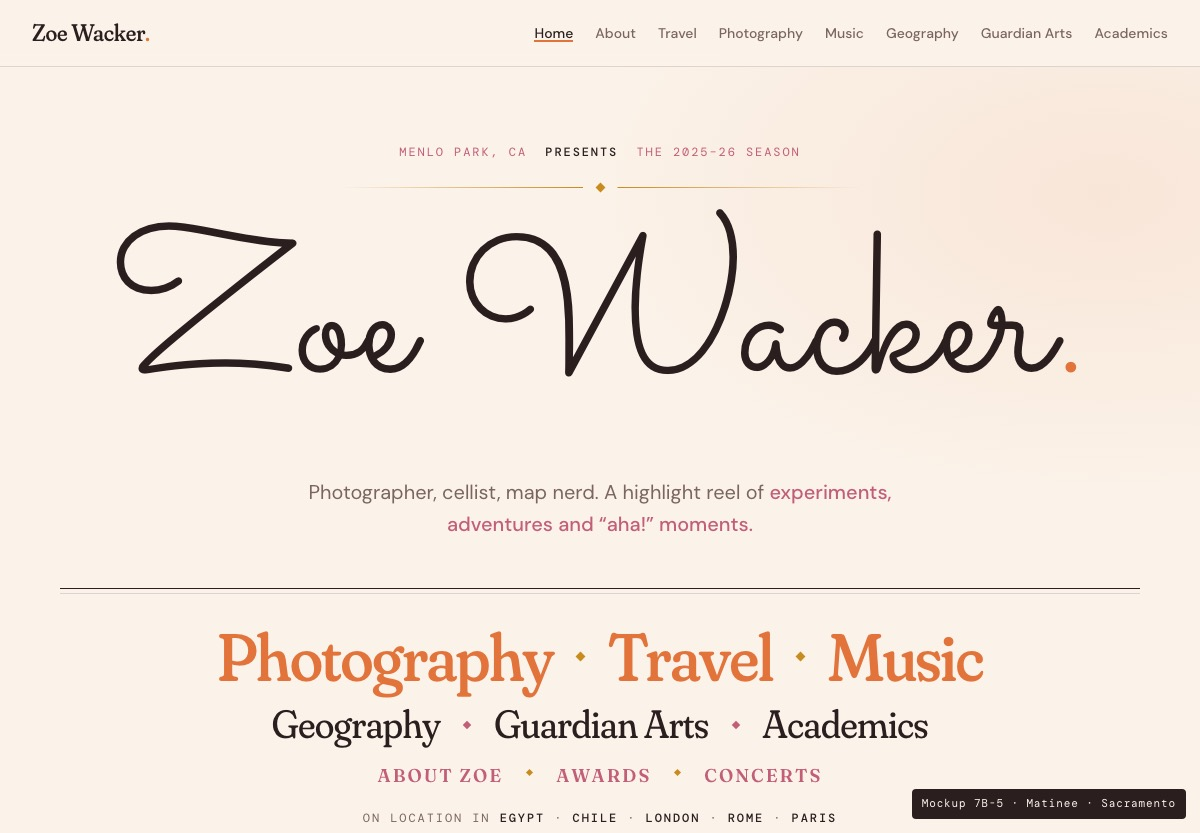
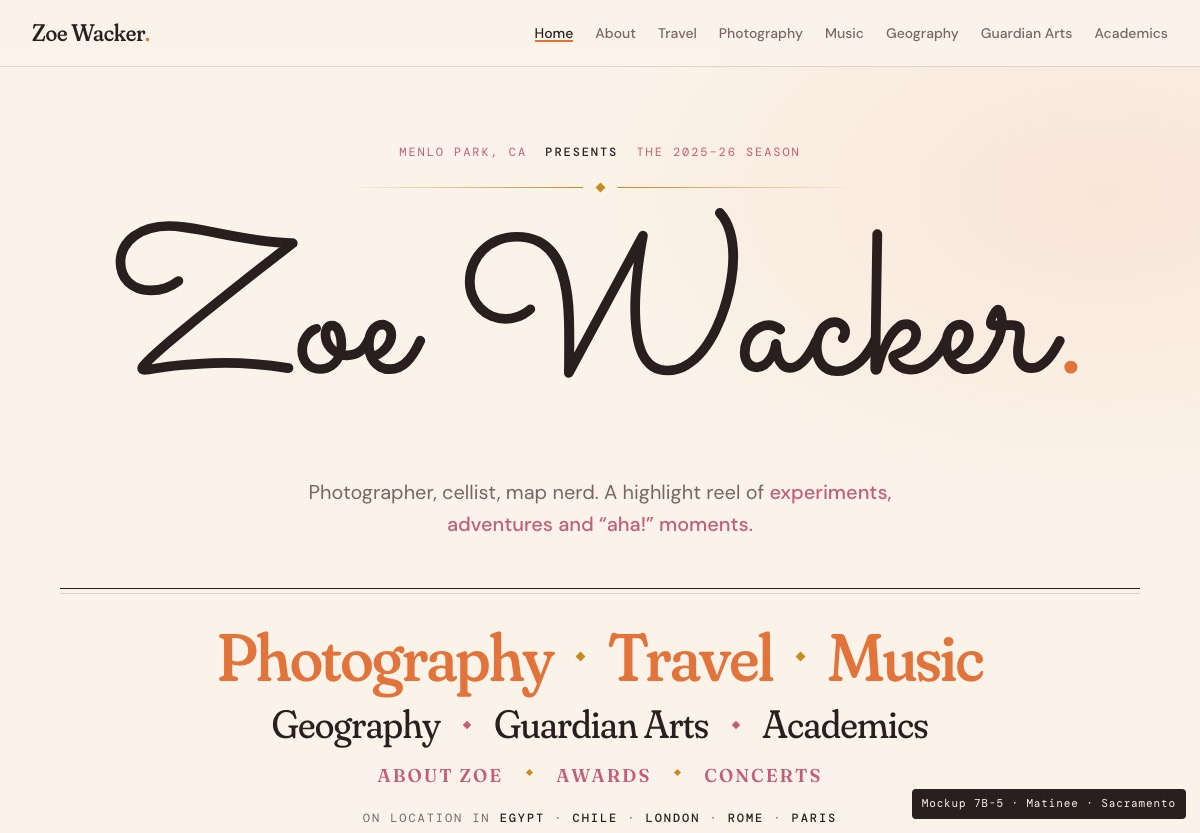
design: 7B-5 Sacramento at a regular pen weight

diff --git a/design/themes/7B-5/index.html b/design/themes/7B-5/index.html
@@ -237,6 +237,8 @@
   h1,h2,.foot .big{font-family:'Sacramento',cursive !important;font-weight:400 !important;font-variation-settings:normal !important;letter-spacing:0 !important;line-height:1.05 !important}
   h1{font-size:clamp(81px,17.0vw,256px) !important;padding:.08em 0 .12em}
   h2{font-size:clamp(56px,7.0vw,94px) !important}
+  /* Sacramento has one thin weight: thicken it to a regular pen line */
+  h1,h2,.foot .big{-webkit-text-stroke:.011em currentColor;paint-order:stroke fill}
 </style>
 <script>document.documentElement.classList.add('js')</script>
 </head>

diff --git a/design/themes/7B-5/award.html b/design/themes/7B-5/award.html
@@ -160,6 +160,8 @@
   h1,h2,.foot .big{font-family:'Sacramento',cursive !important;font-weight:400 !important;font-variation-settings:normal !important;letter-spacing:0 !important;line-height:1.05 !important}
   h1{font-size:clamp(62px,8.0vw,128px) !important;padding:.08em 0 .12em}
   h2{font-size:clamp(56px,7.0vw,94px) !important}
+  /* Sacramento has one thin weight: thicken it to a regular pen line */
+  h1,h2,.foot .big{-webkit-text-stroke:.011em currentColor;paint-order:stroke fill}
 </style>
 <script>document.documentElement.classList.add('js')</script>
 </head>
